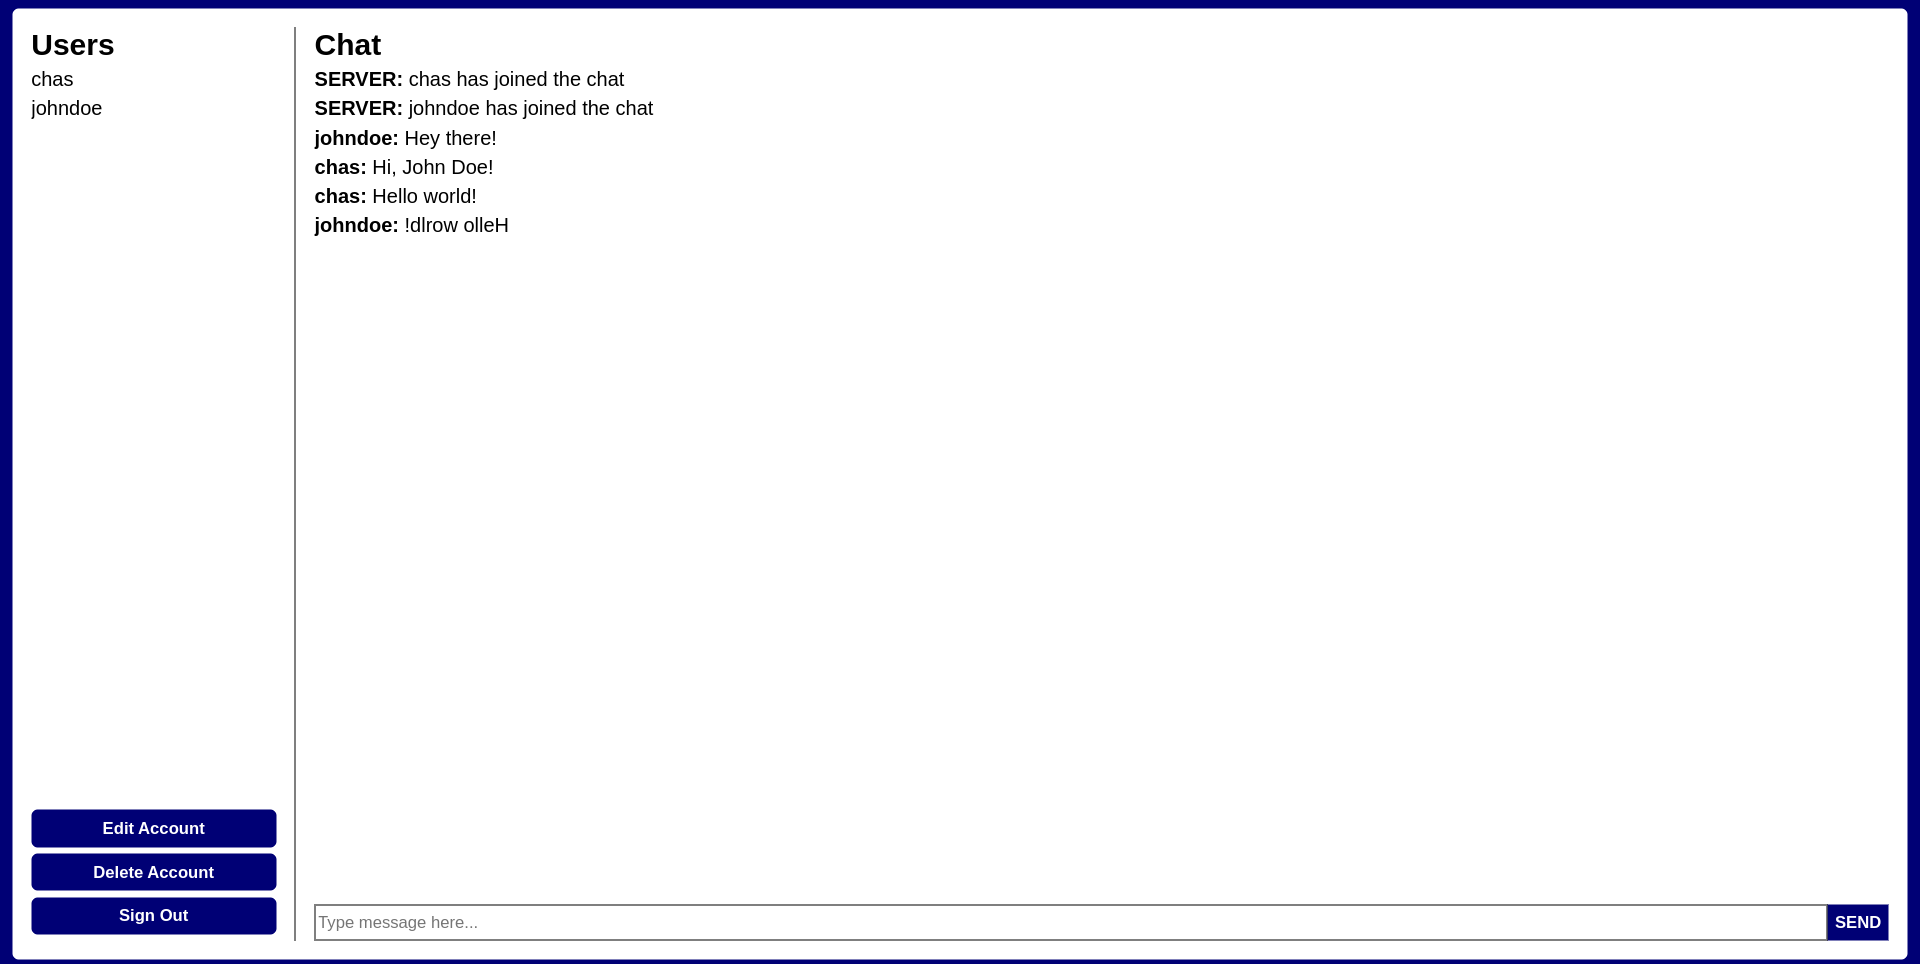
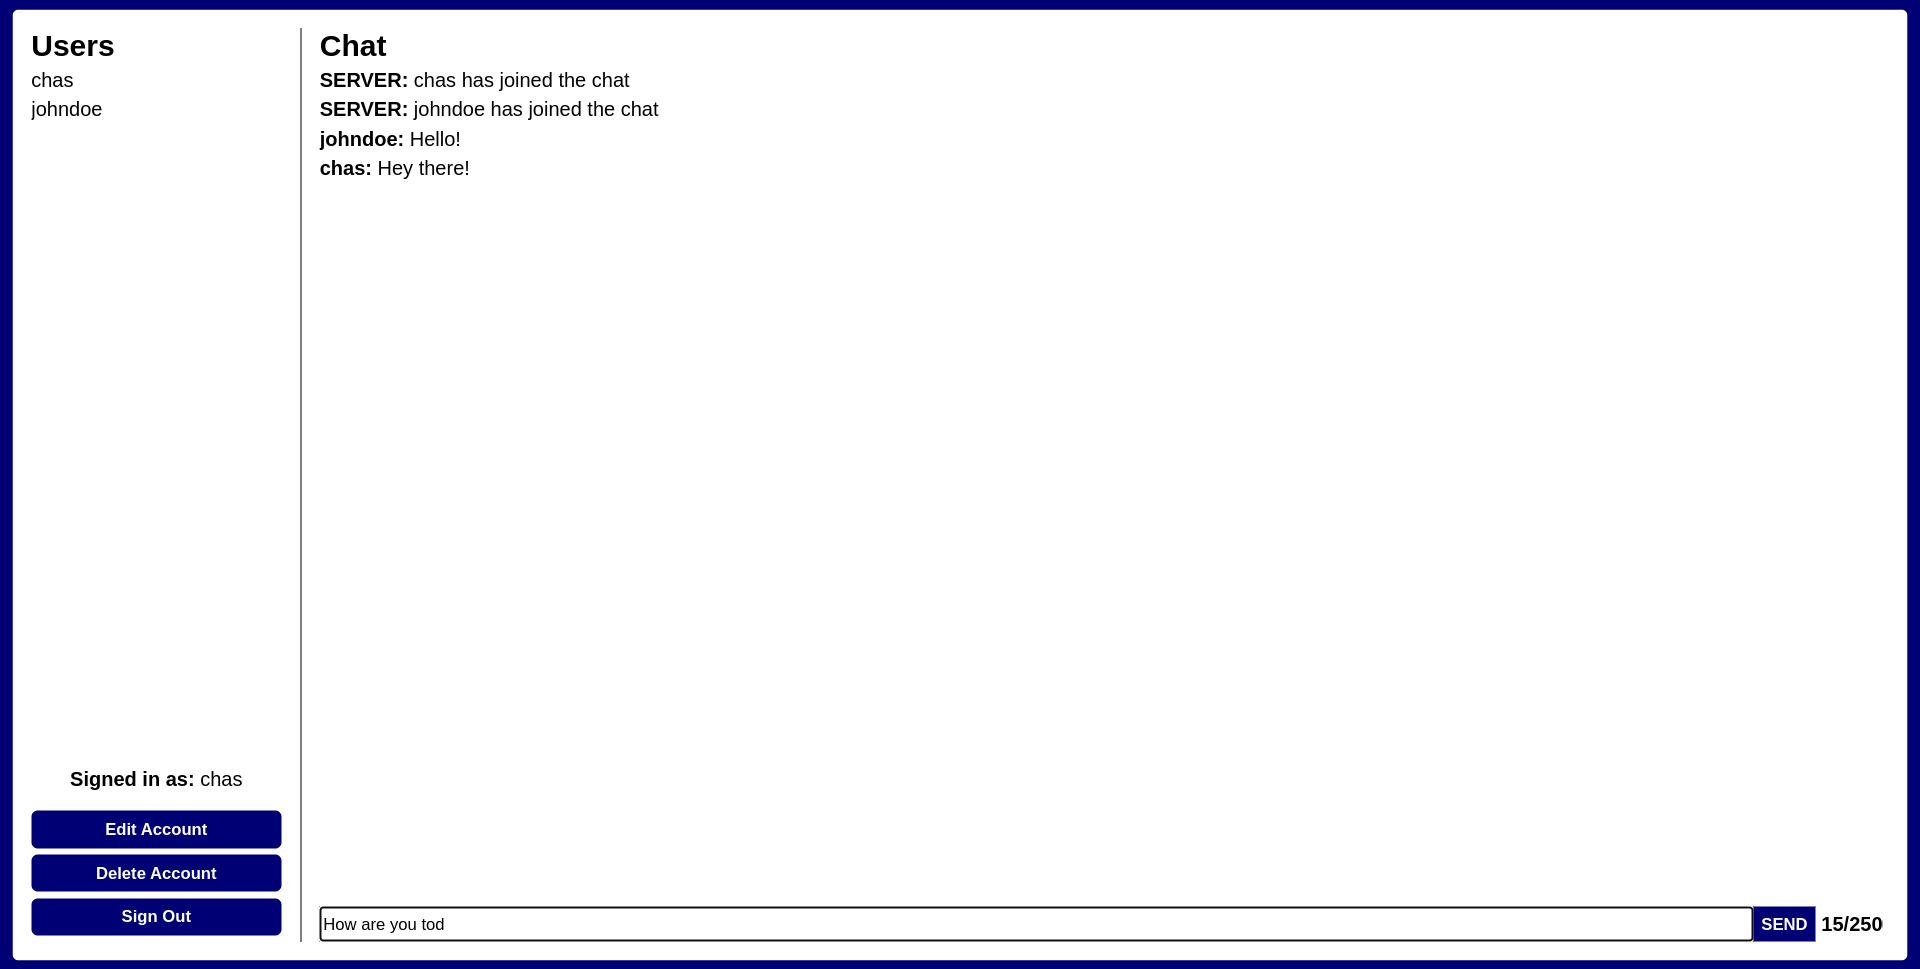
signed in as: [username] in users panel

Changed region(s): [[0.0, 0.778, 1.0, 0.9959], [0.1562, 0.0311, 0.3438, 0.249], [0.0312, 0.0311, 0.0625, 0.0622]]

diff --git a/controller/view.js b/controller/view.js
@@ -38,10 +38,11 @@ const homePage = async (req, res, next) => {
                         <div class="home__container__users-view">
                             <h2 class="home__header">Users</h2>
                             <div class="home__container__users-view__list"></div>
-                            <div class="home__container__users-view__buttons">
-                                <button type="button" class="home__container__users-view__buttons__btn" id="editaccount-button">Edit Account</button>
-                                <button type="button" class="home__container__users-view__buttons__btn" id="deleteaccount-button">Delete Account</button>
-                                <button type="button" class="home__container__users-view__buttons__btn" id="signout-button">Sign Out</button>
+                            <div class="home__container__users-view__bottom">
+                                <p class="home__container__users-view__bottom__username"><strong>Signed in as:</strong> ${username}</p>
+                                <button type="button" class="home__container__users-view__bottom__btn" id="editaccount-button">Edit Account</button>
+                                <button type="button" class="home__container__users-view__bottom__btn" id="deleteaccount-button">Delete Account</button>
+                                <button type="button" class="home__container__users-view__bottom__btn" id="signout-button">Sign Out</button>
                             </div>
                         </div>
                         <div class="home__container__chat-view">

diff --git a/public/styles.css b/public/styles.css
@@ -148,7 +148,11 @@ div.home__container__users-view__list__user, div.home__container__chat-view__cha
     word-wrap: break-word;
 }
 
-button.home__container__users-view__buttons__btn {
+p.home__container__users-view__bottom__username {
+    text-align: center;
+}
+
+button.home__container__users-view__bottom__btn {
     width: 100%;
     height: 30px;
     border: none;
